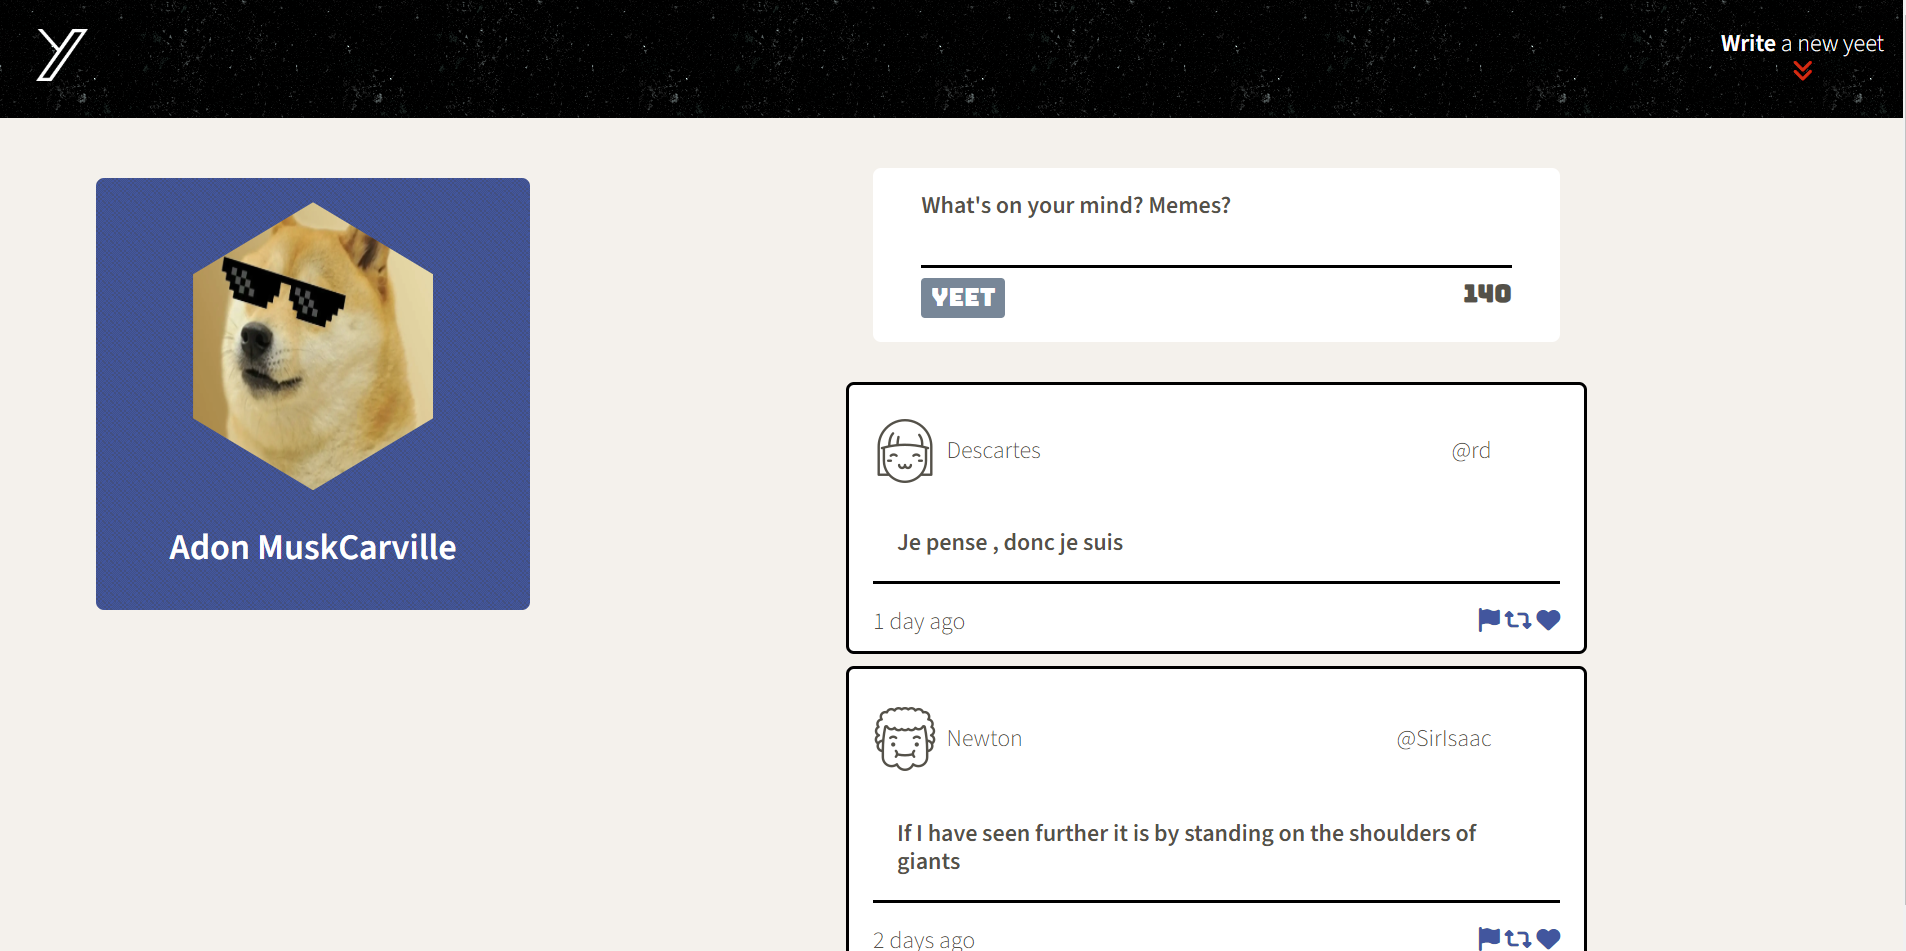
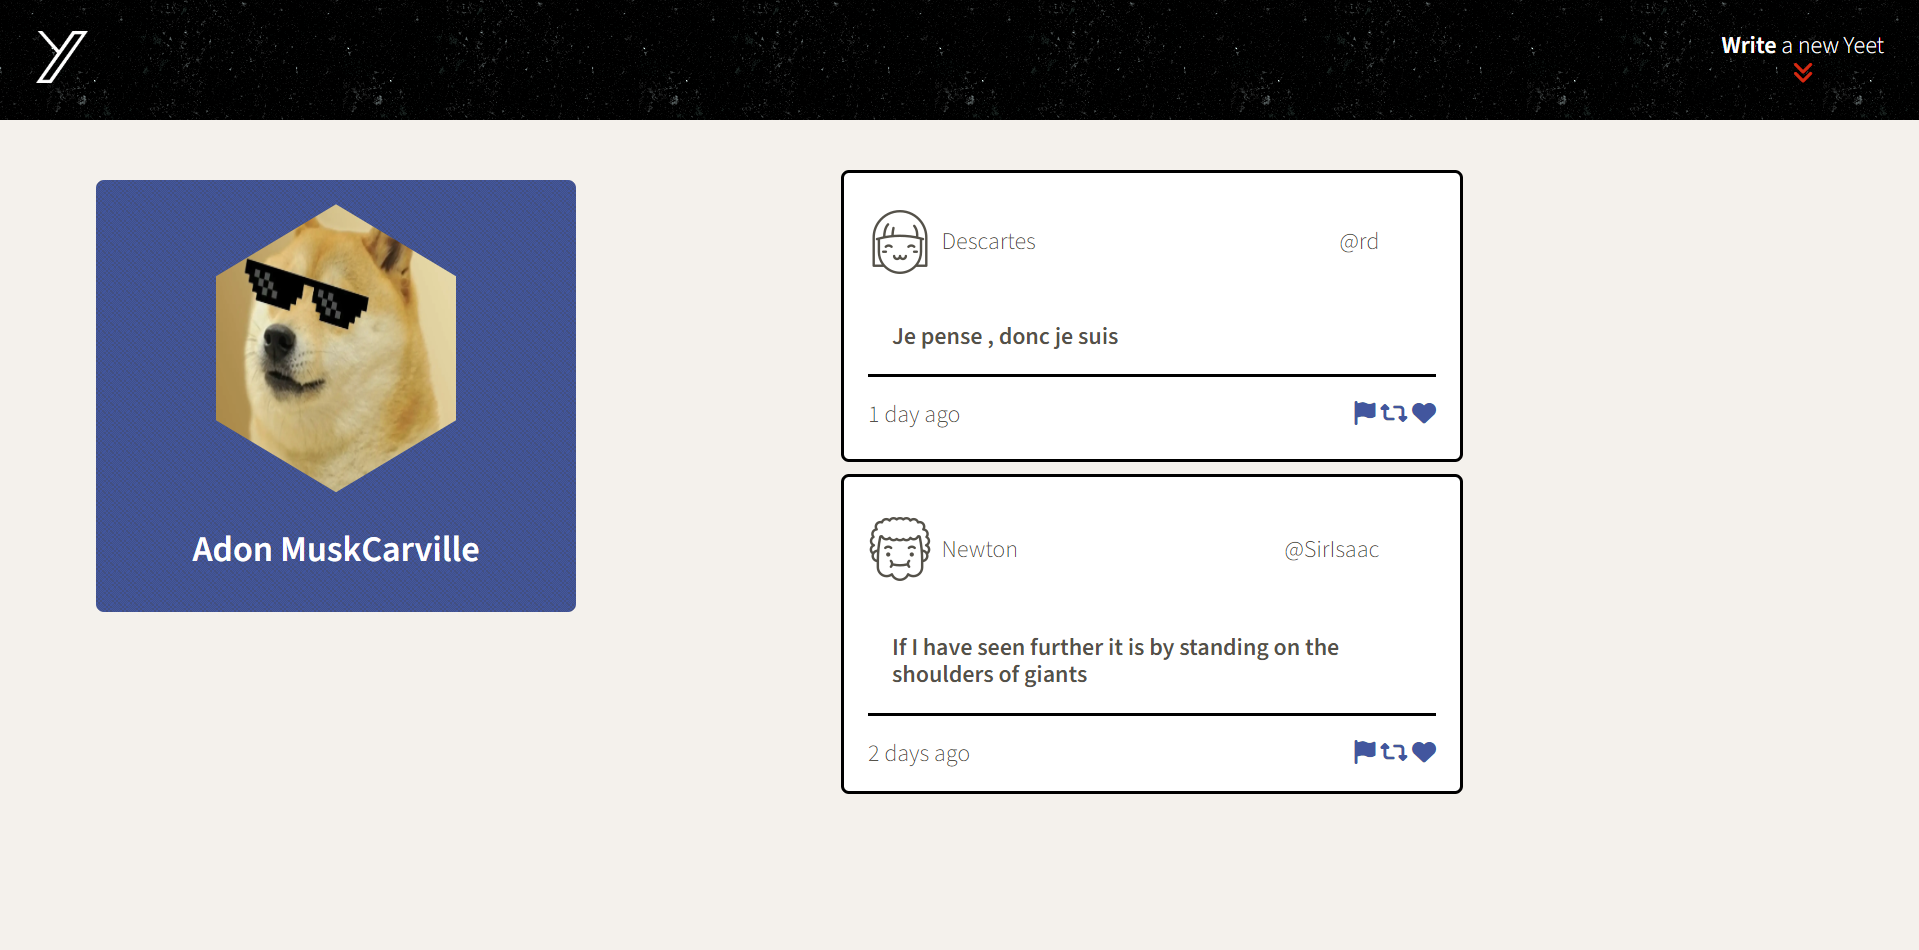
Final commit for last submission. Incorporate more mentor feedback after code review.

diff --git a/public/styles/layout.css b/public/styles/layout.css
@@ -35,7 +35,13 @@ html {
 
 @media only screen and (max-width: 1023px) {
   body {
+    display: flex;
+    flex-direction: column;
     font-size: 16px;
+  }
+
+  main {
+    align-self: center;
   }
 }
 
@@ -49,17 +55,22 @@ main {
   display: flex;
   flex-direction: column;
   align-items: center;
-  width: 80vw;
+  width: 60%;
   background-color: inherit;
 }
 
+.fa-solid:hover {
+  cursor: pointer;
+}
 
 /*
  * Additional CSS can be defined below or in other CSS files, as per instructions
  */
 
  .error-message {
+  min-width: 22em;
   display: flex;
+  flex: 1;
   flex-direction: row;
   justify-items: center;
   align-items: center;
@@ -69,8 +80,7 @@ main {
   border-radius: 8px;
   margin-top: 0.5em;
   padding: 0.5em;
-  height: 40px;
-  width: 40%;
+  width: 50%;
  }
 
  .fa-circle-exclamation {

diff --git a/public/styles/header.css b/public/styles/header.css
@@ -4,9 +4,6 @@ header {
   justify-content: flex-end;
   align-items: center;
   margin-top: 120px;
-  color: #FFFFFF;
-  background-color: #4056A1;
-  background-image: url("https://www.transparenttextures.com/patterns/black-mamba.png");
 }
 
 #photo {
@@ -26,6 +23,9 @@ header {
     width: 20em;
     height: 18em;
     border-radius: 8px;
+    color: #FFFFFF;
+    background-color: #4056A1;
+    background-image: url("https://www.transparenttextures.com/patterns/black-mamba.png");
   }
 }
 
@@ -33,6 +33,7 @@ header {
   #bodyHeader {
     height: 190px;
     font-size: 14px;
+    color: #FFFFFF;
     background-color: #000000;
     background-image: url("https://www.transparenttextures.com/patterns/green-dust-and-scratches.png");
     z-index: 100;

diff --git a/public/styles/new-tweet.css b/public/styles/new-tweet.css
@@ -4,7 +4,8 @@
   padding: 1em 2em;
   background-color: #fff;
   border-radius: 8px;
-  margin: 20px auto;
+  margin-top: 20px;
+  width: 50%;
 }
 
 .tweet-text {
@@ -55,10 +56,4 @@
 #send-tweet:hover {
   background-color: #333;
   cursor: pointer;
-}
-
-@media only screen and (min-width: 1024px) {
-  .new-tweet {
-    width: 50%;
-  }
 }

diff --git a/public/styles/feed.css b/public/styles/feed.css
@@ -6,7 +6,7 @@
   min-width: 28em;
   font-family: inherit;
   border-radius: 8px;
-  margin: 20px auto;
+  margin-top: 20px;
   gap: 0.5em;
 }
 
@@ -42,6 +42,8 @@ article footer {
   display: flex;
   flex-direction: row;
   justify-content: space-between;
+  margin-top: 20px;
+  margin-bottom: 20px;
 }
 
 article:hover {

diff --git a/public/scripts/client.js b/public/scripts/client.js
@@ -118,6 +118,7 @@ $(document).ready(function () {
   $("form").on("submit", handleSubmit);
   $('.fa-xmark').on('click', function() {
     $('.new-tweet').slideUp();
+    $('.error-message').slideUp();
     $('#tweet-text').val('');
   });
   

diff --git a/README.md b/README.md
@@ -16,7 +16,6 @@ Makes use of jQuery, AJAX, HTML and CSS to ensure the site is clean, sleek and, 
 3. Install dependencies using the `npm install` command.
 3. Start the web server using the `npm run local` command. The app will be served at <http://localhost:8080/>.
 4. Go to <http://localhost:8080/> in your browser.
-5. (**For testing error handling**) client.js indicates the three lines of code that must be commented out to allow the form submission button to function when form is empty / over the character limit
 
 ## Dependencies
 
